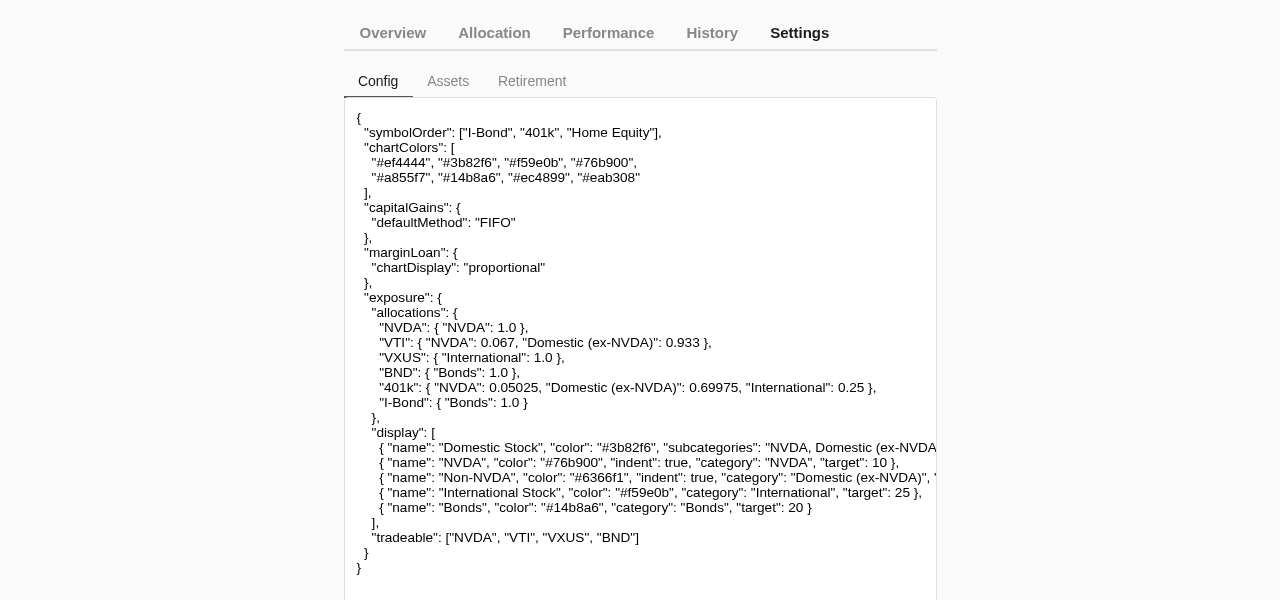
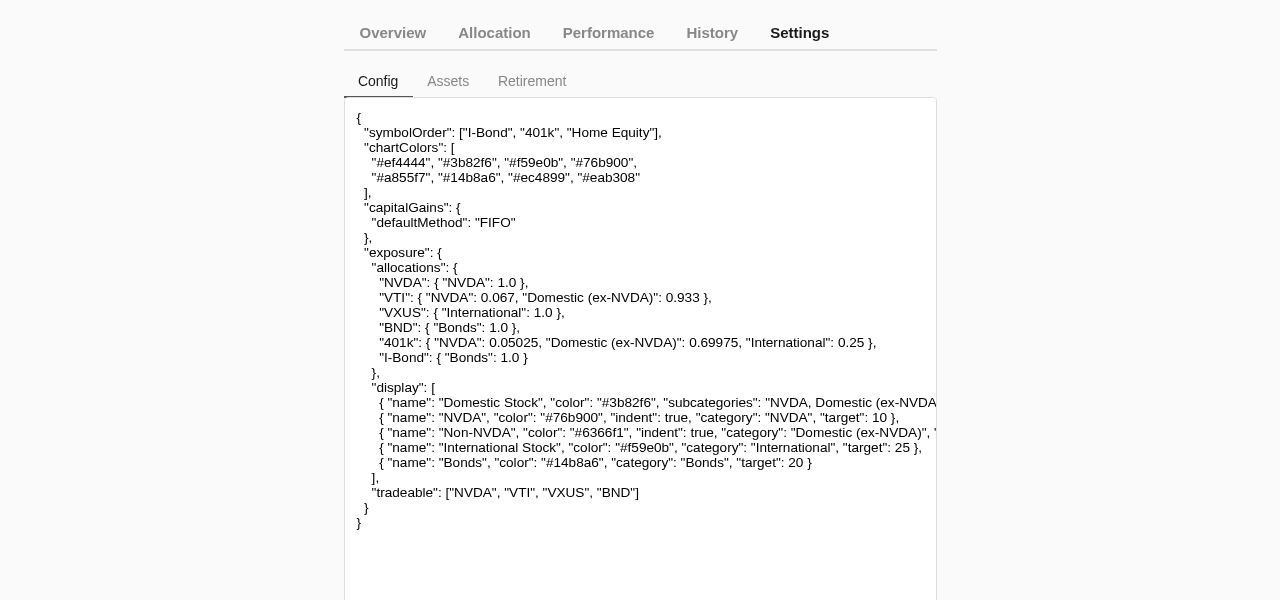
Cleanup docs
Remove margin loans from documentation for now because their
implementation is still a work in progress and the interface is likely
to change.

Changed region(s): [[0.2812, 0.39, 0.7188, 0.9], [0.5938, 0.57, 0.6875, 0.6]]

diff --git a/docs/json-reference.md b/docs/json-reference.md
@@ -4,7 +4,7 @@ Complete field-by-field reference for all data files used by the app.
 
 - [`trades.json`](#tradesjson) — transaction log
 - [`retirement.json`](#retirementjson) — retirement account definitions, contributions, and ground-truth balances
-- [`assets.json`](#assetsjson) — deterministic assets (mortgage equity, I-bonds, margin loans)
+- [`assets.json`](#assetsjson) — deterministic assets (mortgage equity, I-bonds)
 - [`config.json`](#configjson) — display, color, exposure, and rebalancing configuration
 
 ---
@@ -133,18 +133,7 @@ Tracks Series I savings bond value using the Treasury's composite rate formula.
 
 > **Composite rate formula:** `fixedRate + 2×semiannualInflation + fixedRate×semiannualInflation`. Values accrue in $25 units with penny rounding per 6-month period, matching TreasuryDirect's calculation.
 
-### Margin loan (`type: "margin_loan"`)
-
-Tracks a margin loan balance as a liability (negative value).
-
-| Field | Type | Required | Description |
-|---|---|---|---|
-| `name` | string | yes | Display name |
-| `balances` | array | yes | `{ "date": "YYYY-MM-DD", "amount": <number> }` snapshots; the most recent entry on or before today is used |
-
-> **Note:** Appears as a negative (liability) symbol in the chart. Set `marginLoan.chartDisplay: "proportional"` in `config.json` to scale chart bands to show liabilities proportionally.
-
-**Example with all three types:**
+**Example:**
 
 ```json
 [
@@ -169,14 +158,6 @@ Tracks a margin loan balance as a liability (negative value).
     "rates": [
       { "setDate": "2024-01-01", "semiannualInflation": 0.0197 },
       { "setDate": "2024-07-01", "semiannualInflation": 0.0153 }
-    ]
-  },
-  {
-    "type": "margin_loan",
-    "name": "Margin Loan",
-    "balances": [
-      { "date": "2024-06-01", "amount": 15000 },
-      { "date": "2025-01-01", "amount": 12000 }
     ]
   }
 ]
@@ -221,14 +202,6 @@ Object controlling the Performance tab's lot-matching behavior.
 | `defaultMethod` | `"FIFO"` | Lot-matching method for gains computation. Only FIFO is supported. Individual sells can override per-lot via `lotDate` in `trades.json` |
 
 > **Backwards compatibility:** The old key `method` is still accepted.
-
-### `marginLoan`
-
-Object controlling how liability symbols are rendered.
-
-| Field | Valid values | Description |
-|---|---|---|
-| `chartDisplay` | `"proportional"` | When set, chart bands are scaled to show liabilities proportionally. Omit for default behavior (no scaling) |
 
 ### `exposure`
 
@@ -285,9 +258,6 @@ Array of rows shown in the Allocation tab's category table and donut chart.
   ],
   "capitalGains": {
     "defaultMethod": "FIFO"
-  },
-  "marginLoan": {
-    "chartDisplay": "proportional"
   },
   "exposure": {
     "allocations": {
